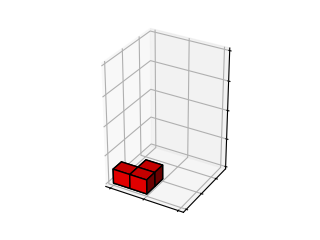
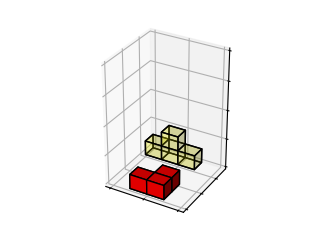
Center buttons, reset button, test transparency

Changed region(s): [[0.3438, 0.525, 0.6562, 0.8458]]

diff --git a/templates/index.html b/templates/index.html
@@ -57,53 +57,56 @@
 <button type="submit" id="move_x">Rotate X</button>
 <button type="submit" id="move_y">Rotate Y</button>
 <button type="submit" id="move_z">Rotate Z</button>
+<br>
+<button type="submit" id="reset">Reset</button>
 
 <br><br><br>
 
+<!--This sections previews each human's piece-->
 <div style="display:grid; grid-template-columns:1fr 1fr 1fr 1fr; justify-content: center;">
     <div style="text-align: center;">
         <img id='2x1' src={{ url_for('static', filename='2x1.png') }}>
-        <button type="submit" id="next_turn_2x1">Play Piece</button>
+        <div style="text-align: center;"><button type="submit" id="next_turn_2x1">Play Piece</button></div>
     </div>
     <div style="text-align: center;">
         <img id='3x1' src={{ url_for('static', filename='3x1.png') }}>
-        <button type="submit" id="next_turn_3x1">Play Piece</button>
+        <div style="text-align: center;"><button type="submit" id="next_turn_3x1">Play Piece</button></div>
     </div>
     <div style="text-align: center;">
         <img id='4x1' src={{ url_for('static', filename='4x1.png') }}>
-        <button type="submit" id="next_turn_4x1">Play Piece</button>
+        <div style="text-align: center;"><button type="submit" id="next_turn_4x1">Play Piece</button></div>
     </div>
     <div style="text-align: center;">
         <img id='archer' src={{ url_for('static', filename='archer.png') }}>
-        <button type="submit" id="next_turn_archer">Play Piece</button>
+        <div style="text-align: center;"><button type="submit" id="next_turn_archer">Play Piece</button></div>
     </div>
     <div style="text-align: center;">
         <img id='bend' src={{ url_for('static', filename='bend.png') }}>
-        <button type="submit" id="next_turn_bend">Play Piece</button>
+        <div style="text-align: center;"><button type="submit" id="next_turn_bend">Play Piece</button></div>
     </div>
     <div style="text-align: center;">
         <img id='corner' src={{ url_for('static', filename='corner.png') }}>
-        <button type="submit" id="next_turn_corner">Play Piece</button>
+        <div style="text-align: center;"><button type="submit" id="next_turn_corner">Play Piece</button></div>
     </div>
     <div style="text-align: center;">
         <img id='L' src={{ url_for('static', filename='L.png') }}>
-        <button type="submit" id="next_turn_L">Play Piece</button>
+        <div style="text-align: center;"><button type="submit" id="next_turn_L">Play Piece</button></div>
     </div>
     <div style="text-align: center;">
         <img id='pipe' src={{ url_for('static', filename='pipe.png') }}>
-        <button type="submit" id="next_turn_pipe">Play Piece</button>
+        <div style="text-align: center;"><button type="submit" id="next_turn_pipe">Play Piece</button></div>
     </div>
     <div style="text-align: center;">
         <img id='square' src={{ url_for('static', filename='square.png') }}>
-        <button type="submit" id="next_turn_square">Play Piece</button>
+        <div style="text-align: center;"><button type="submit" id="next_turn_square">Play Piece</button></div>
     </div>
     <div style="text-align: center;">
         <img id='twistL' src={{ url_for('static', filename='twistL.png') }}>
-        <button type="submit" id="next_turn_twistL">Play Piece</button>
+        <div style="text-align: center;"><button type="submit" id="next_turn_twistL">Play Piece</button></div>
     </div>
     <div style="text-align: center;">
         <img id='twistR' src={{ url_for('static', filename='twistR.png') }}>
-        <button type="submit" id="next_turn_twistR">Play Piece</button>
+        <div style="text-align: center;"><button type="submit" id="next_turn_twistR">Play Piece</button></div>
     </div>
 </div>
 

diff --git a/static/script.js b/static/script.js
@@ -68,7 +68,6 @@ function nextTurn() {
         var image = document.getElementById("gameBoard");
         image.src = `static/test_0.png?t=${timestamp}`
     });
-
 }
 
 
@@ -104,7 +103,6 @@ function nextTurn_human(evt) {
         var image = document.getElementById("gameBoard");
         image.src = `static/test_0.png?t=${timestamp}`
     });
-
 }
 
 
@@ -161,3 +159,31 @@ function movePieces(evt) {
     });
 }
 
+
+// bruh
+document.getElementById('reset').addEventListener("click", reset_pieces);
+function reset_pieces() {
+    fetch('/reset', {
+        method: 'POST',
+        headers: {
+            'Content-Type': 'application/json',
+        },
+        body: JSON.stringify({ 'test': 'a' })
+        }
+    )
+    .then((response) => {
+        if (!response.ok) {
+            throw new Error(`HTTP error: ${response.status}`);
+        }
+        return response.json();
+    })
+    .then((data) => {
+        var timestamp = new Date().getTime();
+        // Loop through array of each piece
+        const pieces = ['4x1', '3x1', '2x1', 'L', 'square', 'corner', 'pipe', 'bend', 'archer', 'twistL', 'twistR']
+        for (const piece of pieces) {
+            var image = document.getElementById(piece);
+            image.src = `static/${piece}.png?t=${timestamp}`
+        }
+    });
+}

diff --git a/app.py b/app.py
@@ -13,16 +13,10 @@ def hello():
     if request.method == "POST":
         board_name = request.form.get("none_n")
         players, grid = start_game(4, board_name)
-        # players, grid, ax, ax_90, ax_180, ax_270 = play_turn(session['turn'], players, grid)
         players, grid = play_turn(session['turn'], players, grid)
 
         session['players'] = jsonpickle.encode(players)
         session['grid'] = jsonpickle.encode(grid)
-
-        # ax.figure.savefig('static//test_0.png', format='png')
-        # ax_90.figure.savefig('static//test_90.png', format='png')
-        # ax_180.figure.savefig('static//test_180.png', format='png')
-        # ax_270.figure.savefig('static//test_270.png', format='png')
 
     return render_template('index.html')
 
@@ -38,13 +32,12 @@ def nextTurn():
 
     players = jsonpickle.decode(session['players'])
     grid = jsonpickle.decode(session['grid'])
+    players[str(2)].turn += 1  # TODO: hardcoded
     players[str(2)].draw_pieces(grid, 0, 0, 0, 0, 0, 0)  # TODO: hardcoded
 
     if (session['turn'] % 4) + 1 != 2:  # TODO: hardcoded
-        # players, grid, ax, ax_90, ax_180, ax_270 = play_turn(session['turn'], players, grid)
         players, grid = play_turn(session['turn'], players, grid)
     else:
-        # players, grid, ax, ax_90, ax_180, ax_270 = human_move(players, grid, data['piece'])
         players, grid = human_move(players, grid, data['piece'])
 
     # Reset profile places for each player
@@ -53,11 +46,6 @@ def nextTurn():
 
     session['players'] = jsonpickle.encode(players)
     session['grid'] = jsonpickle.encode(grid)
-
-    # ax.figure.savefig('static//test_0.png', format='png')
-    # ax_90.figure.savefig('static//test_90.png', format='png')
-    # ax_180.figure.savefig('static//test_180.png', format='png')
-    # ax_270.figure.savefig('static//test_270.png', format='png')
 
     return jsonify({'turn': session['turn']})  # return the result to JavaScript
 
@@ -103,6 +91,17 @@ def move_piece():
     session['players'] = jsonpickle.encode(players)
 
     return jsonify({'result': 'hi'})  # return the result to JavaScript
+
+
+@app.route('/reset', methods=['POST'])
+def reset():
+    data = request.get_json()  # TODO: unnecessary
+    players = jsonpickle.decode(session['players'])
+    grid = jsonpickle.decode(session['grid'])
+    players[str(2)].piece_profile_positions = (0, 0, 0, 0, 0, 0)  # TODO: hardcoded
+    players[str(2)].draw_pieces(grid, 0, 0, 0, 0, 0, 0)  # TODO: hardcoded
+    session['players'] = jsonpickle.encode(players)
+    return jsonify('abc')  # TODO: useless
 
 
 if __name__ == '__main__':

diff --git a/modules/functions.py b/modules/functions.py
@@ -34,6 +34,7 @@ class Competitor:
             '4x1', '3x1', '2x1', 'L', 'square', 'corner', 'pipe', 'bend', 'archer', 'twistL', 'twistR'
         ]
         self.piece_profile_positions = (0, 0, 0, 0, 0, 0)
+        self.turn = 0
 
     def draw_pieces(self, grid, x=0, y=0, z=0, k1=0, k2=0, k3=0):
         for piece, piece_name in zip(self.piece_list, self.piece_names_list):
@@ -42,7 +43,16 @@ class Competitor:
             # If a voxel can't be made then give up on that piece
             try:
                 layer = fill_out2(piece, empty_grid.grid, x, y, z)
-                # piece_grid = empty_grid.grid + layer
+                # Perform legality checks
+                if ((grid.grid * layer).max() != 0) or ((grid.grid * layer).min() != 0):
+                    raise ValueError
+                if self.turn > 1:
+                    adjacent, adjacent_bool = check_adjacent(grid.grid, layer, 2)  # TODO: hardcoded
+                    if adjacent_bool is False:
+                        raise ValueError
+                nothanging_bool = check_nothanging(grid.grid, layer, 2)  # TODO: hardcoded
+                if nothanging_bool is False:
+                    raise ValueError
                 piece_grid = grid.grid + layer
                 # Match up to how it's graphed
                 piece_grid = np.rot90(np.rot90(piece_grid, k=1, axes=(0, 2)), k=3, axes=(0, 1))
@@ -54,7 +64,7 @@ class Competitor:
                             if val == 0:
                                 color.append('none')
                             elif val == 1:
-                                color.append('yellow')
+                                color.append([1, 1, 0, 0.25])
                             elif val == 2:
                                 color.append('red')
                             elif val == 3:
@@ -173,7 +183,6 @@ class board:
 
         return ax
 
-
     def get_results(self):
         grid = self.grid
         grid = np.where(grid == -1, 0, grid)
@@ -273,7 +282,7 @@ def check_nothanging(grid, layer, player):
         for j, row in enumerate(level):
             for k, val in enumerate(row):
                 if val == player:
-                    # Spots below cant be empty
+                    # Spots below can't be empty
                     if (i > 0) and (new_grid[i - 1, j, k] == 0):
                         return False
     return True
